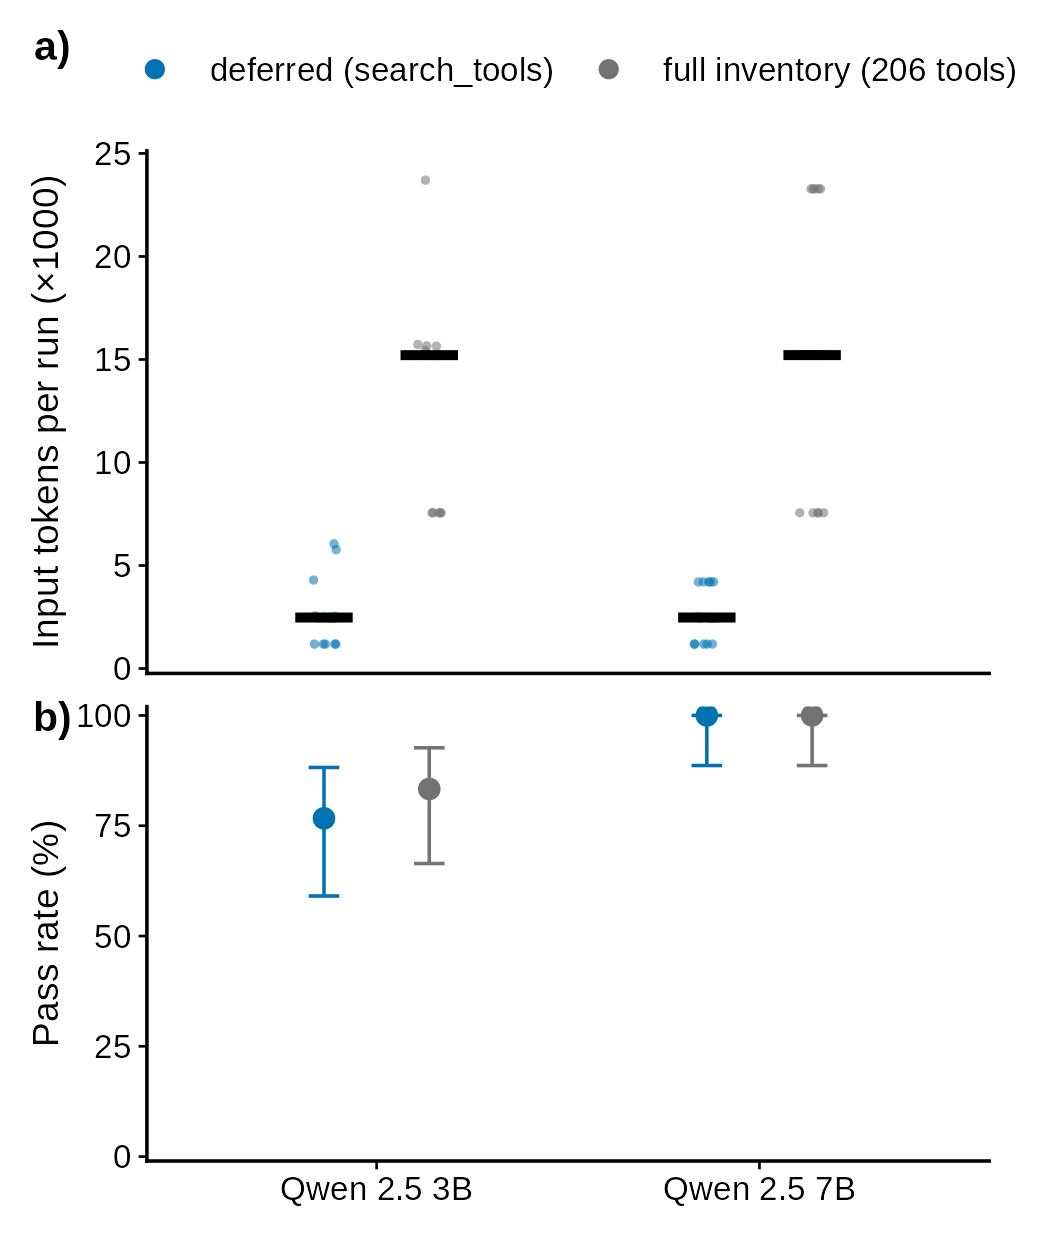
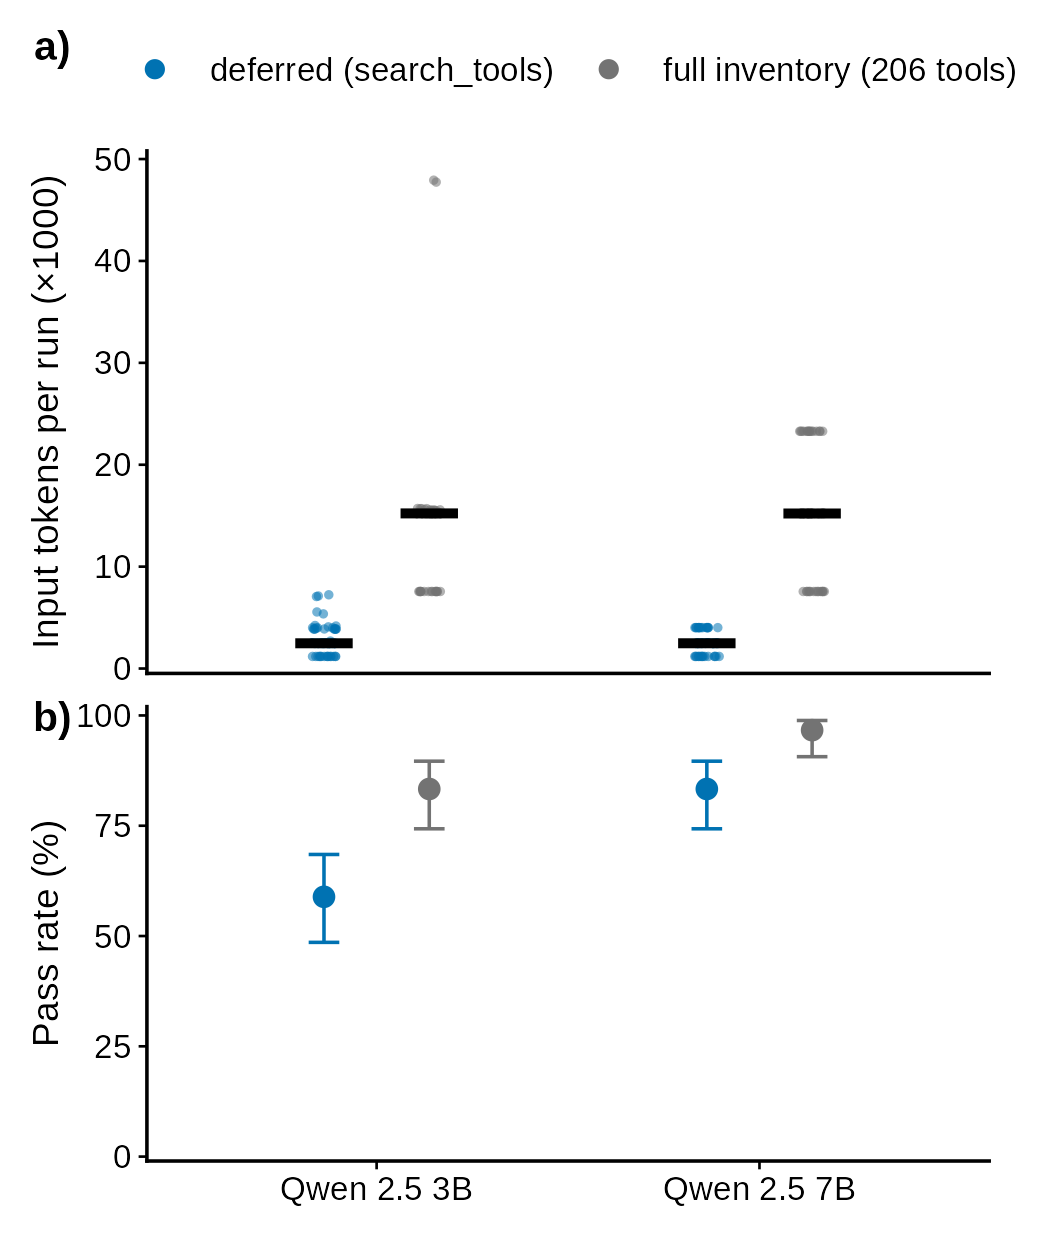
Figura 3 regenerada desde el n=90: cheaper, not free
La fuente pasa del sweep original (n=30, assert laxo) al de 15 reps
con el binario endurecido (docs/sweep-search-tools-ab-n15-2026-07-12):
el panel (b) ahora muestra los ICs disjuntos honestos (-24pp 3b,
-13pp 7b) y el caption reencuadra el claim — el ahorro 5-6× como eje,
el costo de correctness real, y el mecanismo diagnosticado (fragilidad
composicional, no findability ni distracción; el gate en cero en 360
corridas y distractor 15/15 en todos los brazos como evidencia).
Abstract, contribuciones y § searchtools de main.tex alineados; título
de la sección: "cost, not correctness" -> "cheaper, not free". Los dos
sweeps n=30 quedan citados como análisis de sensibilidad. PDF compila
(7 págs).

diff --git a/paper/main.tex b/paper/main.tex
@@ -61,9 +61,11 @@ assistant's own text --- and repairs it: re-rendered as user context it
 gains +10\,pp on the strongest executor, and delivered as a typed task
 list it gains +12\,pp on the smallest. We further isolate the lead's
 mechanism experimentally (proactive opening, not reactive escalation)
-and show that two-level tool deferral cuts prompt tokens $5.6\times$ at
-no correctness cost. \todo{cerrar con 1 frase de takeaway para
-practitioners.}
+and show that two-level tool deferral cuts prompt tokens $5$--$6\times$
+at a real, scale-dependent correctness cost whose mechanism ---
+diagnosed via transcript probes --- is compositional brittleness of the
+small model, not tool findability. \todo{cerrar con 1 frase de takeaway
+para practitioners.}
 \end{abstract}
 
 % =====================================================================
@@ -101,8 +103,10 @@ benchmark: ablations por fila, atribución causal, pre-registro.}
     (both extremes at 49\%) was a delivery bug, not a property of
     planning; the pre-registered iteration turns it into a
     scale-dependent gain (+10 to +12\,pp).
-  \item \textbf{Cost-side levers quantified}: two-level tool deferral
-    ($5.6\times$ fewer prompt tokens, no correctness cost,
+  \item \textbf{Cost-side levers quantified, honestly}: two-level tool
+    deferral ($5$--$6\times$ fewer prompt tokens at a $-13$/$-24$\,pp
+    correctness cost, whose diagnosed mechanism is compositional
+    brittleness rather than findability or distraction,
     Fig.~\ref{fig:searchtools}); \todo{¿incluir colapso ACI/ablations
     acá o dejarlo en resultados secundarios?}
   \item \textbf{\braze{} itself}: an open-source Rust harness where
@@ -240,8 +244,11 @@ prosa-user +10pp en coder, task-list +12pp en 3b; (5) el criterio
 pre-registrado impidió tanto el falso rechazo como el rescate ad-hoc.
 Nota del brazo contaminado y su re-run (transparencia).}
 
-\subsection{Tool deferral: cost, not correctness}\label{sec:searchtools}
-% Fuente: docs/sweep-search-tools-ab-2026-07-11.md
+\subsection{Tool deferral: cheaper, not free}\label{sec:searchtools}
+% Fuente: docs/sweep-search-tools-ab-n15-2026-07-12.md (n=90/brazo,
+% binario endurecido post-v7; los dos sweeps n=30 previos quedan como
+% análisis de sensibilidad — el "no correctness cost" original era
+% artefacto de n=30 + assert laxo pre-J-7)
 
 \begin{figure}[t]
   \centering
@@ -250,10 +257,22 @@ Nota del brazo contaminado y su re-run (transparencia).}
   \label{fig:searchtools}
 \end{figure}
 
-\todo{honestidad primero: la hipótesis de distracción NO se confirmó a
-200 tools de ruido — la cantidad no distrae, la plausibilidad sí
-(contraste con distractor\_selection). La ganancia es costo: 5.6× tokens,
-2.4× wall; a escala gateway (1500+) es habilitación.}
+\todo{la narrativa de esta sección (fuente:
+docs/sweep-search-tools-ab-n15-2026-07-12.md): (1) el ahorro es sólido y
+replicado 3×: 5-6× tokens, ~2× wall; a escala gateway (1500+, ~30K
+tokens de inventario) es habilitación, no optimización. (2) el costo de
+correctness es real a n=90 (-24pp 3b / -13pp 7b, ICs disjuntos) — y su
+mecanismo NO es findability (gate de llamadas directas: 0 disparos en
+360 corridas) ni distracción (distractor 15/15 en TODOS los brazos — la
+plausibilidad distrae, la cantidad no), sino FRAGILIDAD COMPOSICIONAL:
+las sondas con transcripts muestran al mismo modelo, mismos seeds,
+computando 10+20 bien con 206 stubs inertes de relleno y escribiendo
+los sumandos sin sumar sin ellos; y 7×8 pasando 5/15 con el stub de
+search, 11/15 a pelo, 15/15 con el relleno. (3) implicación de config:
+deferral por default solo cuando el inventario no cabe; para ≤7B con
+inventario que cabe, no. (4) conexión con la tesis: los efectos del
+harness sobre modelos chicos son no-monótonos — se miden, no se
+asumen.}
 
 \subsection{Secondary levers and ablations}\label{sec:ablations}
 \todo{qué entra acá: rescued\_tool\_calls=0 en 665 corridas con Qwen

diff --git a/paper/figs/fig3_search_tools_caption.tex b/paper/figs/fig3_search_tools_caption.tex
@@ -1,14 +1,22 @@
 % Caption sugerido:
-\caption{Two-level tool deferral: same correctness, $5.6\times$ fewer
-prompt tokens. On a suite whose tasks require only the six local tools
-but whose registry carries 200 synthetic noise tools (an MCP-gateway
-stand-in), hiding the noise catalog behind a single \texttt{search\_tools}
-meta-tool (blue) versus listing all 206 tools (grey).
-\textbf{(a)}~Input tokens per run (points: individual runs, $n{=}30$
-per arm; black bar: median). \textbf{(b)}~Pass rate (95\% Wilson CIs).
-Correctness is unchanged (7B) or within noise (3B) — the models are
-not measurably distracted by 200 irrelevant tools — while prompt cost
-collapses $5.6\times$ and wall-clock roughly halves (not shown). At
-the scale of real tool gateways (1{,}500+ tools) the full-inventory
-arm would exceed the local context window outright: deferral is
-enabling, not merely cheaper.}
+\caption{Two-level tool deferral: prompt cost collapses $5$--$6\times$;
+correctness pays a real, scale-dependent price. On a suite whose tasks
+require only the six local tools but whose registry carries 200
+synthetic noise tools (an MCP-gateway stand-in), hiding the noise
+catalog behind a single \texttt{search\_tools} meta-tool (blue) versus
+listing all 206 tools (grey). \textbf{(a)}~Input tokens per run
+(points: individual runs, $n{=}90$ per arm; black bar: median).
+\textbf{(b)}~Pass rate (95\% Wilson CIs): the deferred arm loses
+24\,pp (3B) and 13\,pp (7B), CIs disjoint. The mechanism is not tool
+findability — the deferred arm never needed nor attempted a hidden
+tool (the direct-call gate fired zero times in 360 runs) — but
+\emph{compositional brittleness}: transcript probes show the same
+model, at the same seeds, computing $10{+}20$ correctly with 206 inert
+stubs padding the prompt and writing the unsummed inputs without them
+(§ ablations). Distraction, by contrast, does not materialize: the
+distractor-selection task passes 15/15 in every arm — plausibility,
+not volume, is what distracts. At the scale of real tool gateways
+(1{,}500+ tools, $\sim$30K tokens of inventory) the full-inventory arm
+exceeds the local context window outright: deferral remains enabling
+there, while these results argue against enabling it by default for
+$\leq$7B models when the inventory fits.}
